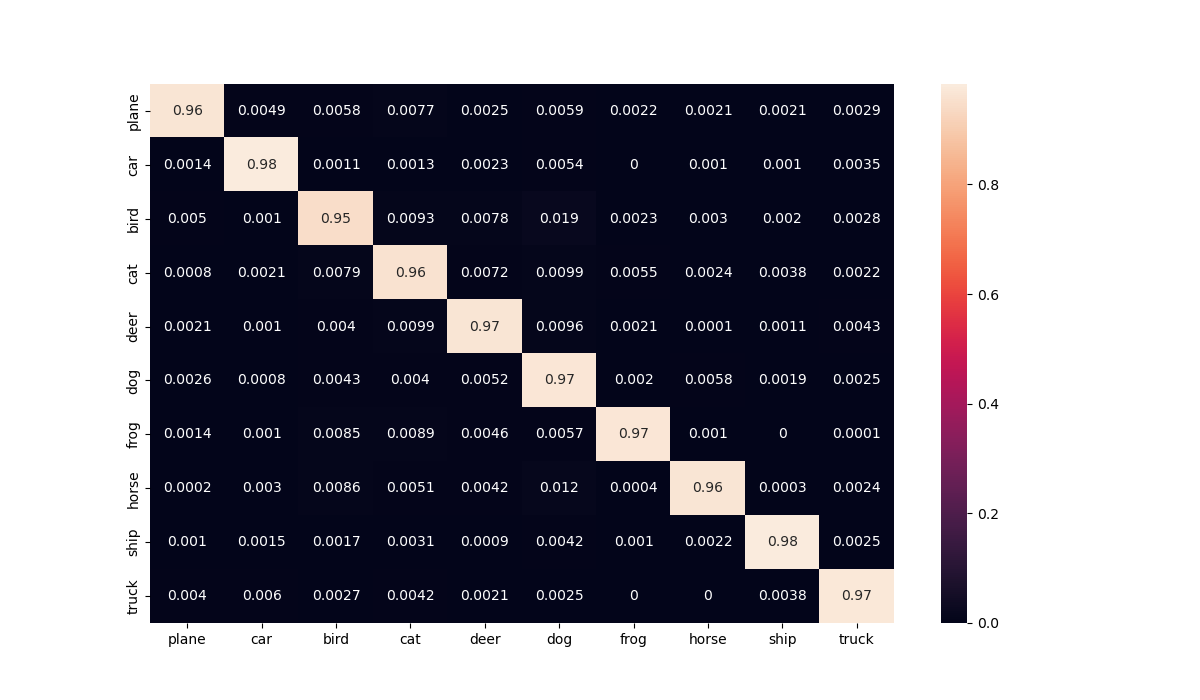
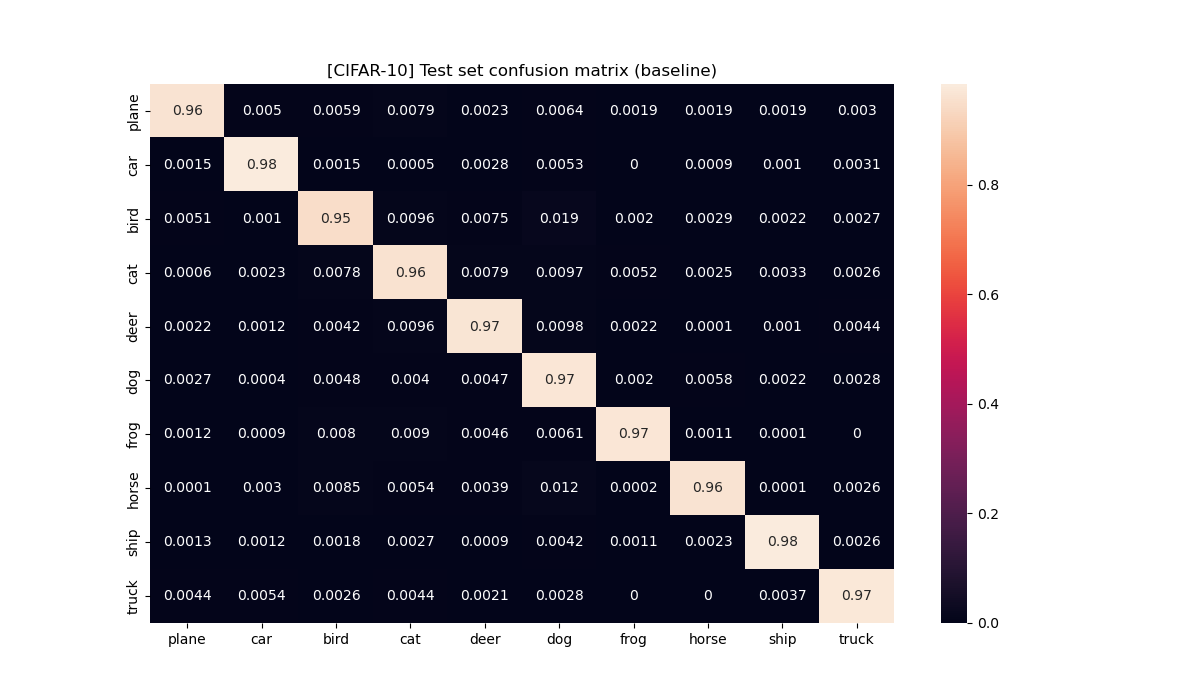
training confusion matrices

diff --git a/cifar10/training_confusion_mtx.py b/cifar10/training_confusion_mtx.py
@@ -86,10 +86,10 @@ class CNNEncoder(nn.Module):
         out = self.layer4(out)
         return out
 
-class RelationNetwork(nn.Module):
+class L2RelationNetwork(nn.Module):
     """RelationNetwork"""
     def __init__(self,input_size,hidden_size):
-        super(RelationNetwork, self).__init__()
+        super(L2RelationNetwork, self).__init__()
         self.layer1 = nn.Sequential(
                         nn.Conv2d(64*2,64,kernel_size=3,padding=1),
                         nn.BatchNorm2d(64, momentum=1, affine=True),
@@ -115,6 +115,33 @@ class RelationNetwork(nn.Module):
         out = torch.sigmoid(self.fc2(out))  # torch.nn.functional.sigmoid is deprecated
         return out
 
+class RelationNetwork(nn.Module):
+    """RelationNetwork"""
+    def __init__(self,input_size,hidden_size):
+        super(RelationNetwork, self).__init__()
+        self.layer1 = nn.Sequential(
+                        nn.Conv2d(64*2,64,kernel_size=3,padding=1),
+                        nn.BatchNorm2d(64, momentum=1, affine=True),
+                        nn.ReLU(),
+                        nn.MaxPool2d(2)
+                        )
+        self.layer2 = nn.Sequential(
+                        nn.Conv2d(64,64,kernel_size=3,padding=1),
+                        nn.BatchNorm2d(64, momentum=1, affine=True),
+                        nn.ReLU(),
+                        nn.MaxPool2d(2)
+                        )
+        self.fc1 = nn.Linear(input_size*2*2,hidden_size)
+        self.fc2 = nn.Linear(hidden_size,1)
+
+    def forward(self,x):
+        out = self.layer1(x)
+        out = self.layer2(out)
+        out = out.view(out.size(0),-1)
+        out = F.relu(self.fc1(out))
+        out = torch.sigmoid(self.fc2(out))  # torch.nn.functional.sigmoid is deprecated
+        return out
+    
 def weights_init(m):
     classname = m.__class__.__name__
     if classname.find('Conv') != -1:
@@ -146,27 +173,25 @@ def main():
                                             shuffle=True, num_workers=2)
     classes = ('plane', 'car', 'bird', 'cat',
            'deer', 'dog', 'frog', 'horse', 'ship', 'truck')
-    # Step 1: init data folders
-    print("init data folders")
-
-    # Step 2: init neural networks
-    print("init neural networks")
-
-    feature_encoder = CNNEncoder()
-    relation_network = RelationNetwork(FEATURE_DIM,RELATION_DIM)
 
 
-    feature_encoder.cuda(GPU)
-    relation_network.cuda(GPU)
+    ## Test L2 Version
+    print("Testing wiht L2 regularization and dropout")
+
+    l2_feature_encoder = CNNEncoder()
+    l2_relation_network = L2RelationNetwork(FEATURE_DIM,RELATION_DIM)
+
+    l2_feature_encoder.cuda(GPU)
+    l2_relation_network.cuda(GPU)
 
     filename_encoder = f"./models/l2norm_cifar10_feature_encoder_{CLASS_NUM}way_{SAMPLE_NUM_PER_CLASS}shot.pkl"
     filename_network = f"./models/l2norm_cifar10_relation_network_{CLASS_NUM}way_{SAMPLE_NUM_PER_CLASS}shot.pkl"
 
-    if os.path.exists(filename_encoder):
-        feature_encoder.load_state_dict(torch.load(filename_encoder))
+    if os.path.exists(filename_encoder): 
+        l2_feature_encoder.load_state_dict(torch.load(filename_encoder))
         print("load feature encoder success")
     if os.path.exists(filename_network):
-        relation_network.load_state_dict(torch.load(filename_network))
+        l2_relation_network.load_state_dict(torch.load(filename_network))
         print("load relation network success")
 
     y_true = []
@@ -177,34 +202,34 @@ def main():
         sample_iterator = iter(trainloader)
         sample_images,sample_labels = next(sample_iterator)
 
-        for test_images,test_labels in testloader:
-            batch_size = test_labels.shape[0]
+        for train_images,train_labels in trainloader:
+            batch_size = train_labels.shape[0]
             # calculate features
-            sample_features = feature_encoder(Variable(sample_images).cuda(GPU)) # 5x64
+            sample_features = l2_feature_encoder(Variable(sample_images).cuda(GPU)) # 5x64
             sample_features = sample_features.view(CLASS_NUM,SAMPLE_NUM_PER_CLASS,FEATURE_DIM,8,8)
             sample_features = torch.sum(sample_features,1).squeeze(1)
-            test_features = feature_encoder(Variable(test_images).cuda(GPU)) # 20x64
+            train_features = l2_feature_encoder(Variable(train_images).cuda(GPU)) # 20x64
 
             # calculate relations
             # each batch sample link to every samples to calculate relations
             # to form a 100x128 matrix for relation network
             sample_features_ext = sample_features.unsqueeze(0).repeat(batch_size,1,1,1,1)
 
-            test_features_ext = test_features.unsqueeze(0).repeat(1*CLASS_NUM,1,1,1,1)
-            test_features_ext = torch.transpose(test_features_ext,0,1)
-            relation_pairs = torch.cat((sample_features_ext,test_features_ext),2).view(-1,FEATURE_DIM*2,8,8)
-            relations = relation_network(relation_pairs).view(-1,CLASS_NUM)
+            train_features_ext = train_features.unsqueeze(0).repeat(1*CLASS_NUM,1,1,1,1)
+            train_features_ext = torch.transpose(train_features_ext,0,1)
+            relation_pairs = torch.cat((sample_features_ext,train_features_ext),2).view(-1,FEATURE_DIM*2,8,8)
+            relations = l2_relation_network(relation_pairs).view(-1,CLASS_NUM)
 
             _,predict_labels = torch.max(relations.data,1)
 
             # save outputs and truth
-            y_true.extend(test_labels.to("cpu"))
+            y_true.extend(train_labels.to("cpu"))
             y_pred.extend(predict_labels.to("cpu"))
 
     # calculate accuracy
     from sklearn.metrics import accuracy_score
     accuracy = accuracy_score(y_true, y_pred)   # get accuracy
-    print(f"Test Accuracy: {accuracy}")
+    print(f"Train Accuracy: {accuracy}")
     
     # make confusion matrix
     cf_mtx = confusion_matrix(y_true, y_pred)
@@ -214,7 +239,72 @@ def main():
     plt.figure(figsize = (12,7))
     sn.heatmap(df, annot=True)
     if not os.path.exists('images'): os.makedirs('images')
-    plt.title('[CIFAR-10] Test set confusion matrix (with L2 and dropout)')
-    plt.savefig('images/l2norm_confusion_mtx.png')
+    plt.title("[CIFAR-10] Training confusion matrix (with L2 and dropout)")
+    plt.savefig('images/train_l2norm_confusion_mtx.png')
+
+    ## Test Normal version of CIFAR model
+    feature_encoder = CNNEncoder()
+    relation_network = L2RelationNetwork(FEATURE_DIM,RELATION_DIM)
+
+    feature_encoder.cuda(GPU)
+    relation_network.cuda(GPU)
+
+    filename_encoder = f"./models/cifar10_feature_encoder_{CLASS_NUM}way_{SAMPLE_NUM_PER_CLASS}shot.pkl"
+    filename_network = f"./models/cifar10_relation_network_{CLASS_NUM}way_{SAMPLE_NUM_PER_CLASS}shot.pkl"
+
+    if os.path.exists(filename_encoder): 
+        l2_feature_encoder.load_state_dict(torch.load(filename_encoder))
+        print("load feature encoder success")
+    if os.path.exists(filename_network):
+        l2_relation_network.load_state_dict(torch.load(filename_network))
+        print("load relation network success")
+
+    y_true = []
+    y_pred = []
+    for _ in range(TEST_EPISODE):
+
+        # kmanakk1 - change how we get samples for compatability with pytorch 1.7
+        sample_iterator = iter(trainloader)
+        sample_images,sample_labels = next(sample_iterator)
+
+        for train_images,train_labels in trainloader:
+            batch_size = train_labels.shape[0]
+            # calculate features
+            sample_features = feature_encoder(Variable(sample_images).cuda(GPU)) # 5x64
+            sample_features = sample_features.view(CLASS_NUM,SAMPLE_NUM_PER_CLASS,FEATURE_DIM,8,8)
+            sample_features = torch.sum(sample_features,1).squeeze(1)
+            train_features = feature_encoder(Variable(train_images).cuda(GPU)) # 20x64
+
+            # calculate relations
+            # each batch sample link to every samples to calculate relations
+            # to form a 100x128 matrix for relation network
+            sample_features_ext = sample_features.unsqueeze(0).repeat(batch_size,1,1,1,1)
+
+            train_features_ext = train_features.unsqueeze(0).repeat(1*CLASS_NUM,1,1,1,1)
+            train_features_ext = torch.transpose(train_features_ext,0,1)
+            relation_pairs = torch.cat((sample_features_ext,train_features_ext),2).view(-1,FEATURE_DIM*2,8,8)
+            relations = relation_network(relation_pairs).view(-1,CLASS_NUM)
+
+            _,predict_labels = torch.max(relations.data,1)
+
+            # save outputs and truth
+            y_true.extend(train_labels.to("cpu"))
+            y_pred.extend(predict_labels.to("cpu"))
+
+    # calculate accuracy
+    from sklearn.metrics import accuracy_score
+    accuracy = accuracy_score(y_true, y_pred)   # get accuracy
+    print(f"Train Accuracy: {accuracy}")
+    
+    # make confusion matrix
+    cf_mtx = confusion_matrix(y_true, y_pred)
+    df = pd.DataFrame(cf_mtx / np.sum(cf_mtx, axis=1)[:, None], index = [i for i in classes],
+                     columns = [i for i in classes])
+    
+    plt.figure(figsize = (12,7))
+    sn.heatmap(df, annot=True)
+    if not os.path.exists('images'): os.makedirs('images')
+    plt.title("[CIFAR-10] Training confusion matrix (baseline)")
+    plt.savefig('images/train_confusion_mtx.png')
 if __name__ == '__main__':
     main()

diff --git a/miniimagenet/l2norm_confusion_mtx.py b/miniimagenet/l2norm_confusion_mtx.py
@@ -194,6 +194,7 @@ def main():
     plt.figure(figsize = (12,7))
     sn.heatmap(df, annot=True)
     if not os.path.exists('images'): os.makedirs('images')
+    plt.title('[mini-imagenet] Test set confusion matrix (with L2 and dropout)')
     plt.savefig('images/l2norm_confusion_mtx.png')
 
 if __name__ == '__main__':

diff --git a/miniimagenet/miniimagenet_confusion_mtx.py b/miniimagenet/miniimagenet_confusion_mtx.py
@@ -192,6 +192,7 @@ def main():
     plt.figure(figsize = (12,7))
     sn.heatmap(df, annot=True)
     if not os.path.exists('images'): os.makedirs('images')
+    plt.title('[mini-imagenet] Test set confusion matrix (baseline)')
     plt.savefig('images/miniimagenet_confusion_mtx.png')
 
 if __name__ == '__main__':

diff --git a/cifar10/cifar_confusion_mtx.py b/cifar10/cifar_confusion_mtx.py
@@ -212,6 +212,7 @@ def main():
     plt.figure(figsize = (12,7))
     sn.heatmap(df, annot=True)
     if not os.path.exists('images'): os.makedirs('images')
+    plt.title('[CIFAR-10] Test set confusion matrix (baseline)')
     plt.savefig('images/cifar_confusion_mtx.png')
 if __name__ == '__main__':
     main()
